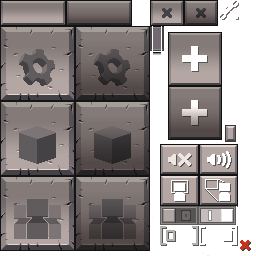
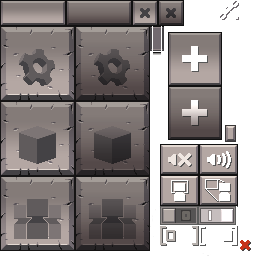
implement dynamic font text height calculation and update world selection menu UI

Changed region(s): [[0.5, 0.0, 0.875, 0.125]]

diff --git a/src/client/gui/screens/screen_worlds.cpp b/src/client/gui/screens/screen_worlds.cpp
@@ -148,7 +148,8 @@ void WorldsScreen::renderContent(MenuState& s) {
                 Texture* img = iconDist <= 1 ? worldIcon(worlds.names[i]) : 0;
                 if (!img) img = &defaultWorld;
                 textureBind(img);
-                float imgW = 64.0f * listScale, imgH = 48.0f * listScale;
+
+                float imgW = 64.0f * listScale, imgH = 45.0f * listScale;
                 float imgX = xCenterV - imgW / 2.0f;
                 float imgY = rowY - 8.0f * listScale;
 
@@ -170,17 +171,29 @@ void WorldsScreen::renderContent(MenuState& s) {
 
                 const float rowTextMaxW = (120.0f - 10.0f) * listScale * UI_SCALE / listText;
 
+                const float TEXT_Y0    = 139.0f;
+                const float SHADOW     = 2.0f;
+                const float GAP_NAME   = 3.0f;
+                const float GAP_DATE   = 2.0f;
+                const float GAP_FOLDER = 2.0f;
+
+                #define LINE_BOTTOM(y, str) ((y) + fontTextInkRows(&font, (str)) * listText + SHADOW)
                 const char* t0 = worlds.displayNames[i];
-                fontDrawTextClipped(&font, xText * UI_SCALE, (rowY + 44.0f * listScale) * UI_SCALE, t0, colTitle, listText, rowTextMaxW);
-
                 const char* t1 = worlds.dates[i];
-                fontDrawTextClipped(&font, xText * UI_SCALE, (rowY + 54.0f * listScale) * UI_SCALE, t1, colGrey, listText, rowTextMaxW);
-
                 const char* t2 = worlds.names[i];
-                fontDrawTextClipped(&font, xText * UI_SCALE, (rowY + 64.0f * listScale) * UI_SCALE, t2, colGrey, listText, rowTextMaxW);
-
                 const char* t3 = worlds.gameModes[i] == 1 ? "Creative" : "Survival";
-                fontDrawTextShadow(&font, xText * UI_SCALE, (rowY + 74.0f * listScale) * UI_SCALE, t3, colGrey, listText);
+                const float TEXT_Y1 = LINE_BOTTOM(TEXT_Y0, t0) + GAP_NAME;
+                const float TEXT_Y2 = LINE_BOTTOM(TEXT_Y1, t1) + GAP_DATE;
+                const float TEXT_Y3 = LINE_BOTTOM(TEXT_Y2, t2) + GAP_FOLDER;
+                #undef LINE_BOTTOM
+
+                fontDrawTextClipped(&font, xText * UI_SCALE, TEXT_Y0, t0, colTitle, listText, rowTextMaxW);
+
+                fontDrawTextClipped(&font, xText * UI_SCALE, TEXT_Y1, t1, colGrey, listText, rowTextMaxW);
+
+                fontDrawTextClipped(&font, xText * UI_SCALE, TEXT_Y2, t2, colGrey, listText, rowTextMaxW);
+
+                fontDrawTextShadow(&font, xText * UI_SCALE, TEXT_Y3, t3, colGrey, listText);
             } else {
 
                 textureBind(&touchGui);
@@ -197,7 +210,7 @@ void WorldsScreen::renderContent(MenuState& s) {
                 float cnw = fontTextWidth(&font, cn) * listText;
 
                 fontDrawTextShadow(&font, xCenterV * UI_SCALE - cnw / 2.0f,
-                                   iconY + iconPx + 2.0f, cn, colTitle, listText);
+                                   iconY + iconPx + 4.0f, cn, colTitle, listText);
             }
         }
 
@@ -205,17 +218,19 @@ void WorldsScreen::renderContent(MenuState& s) {
             bool delHovered = (uiRow == 2);
             textureBind(&touchGui);
 
-            const float TRASH_ZOOM = 2.0f;
-            const float trashPxW = 34.0f * TRASH_ZOOM;
-            const float trashPxH = 26.0f * TRASH_ZOOM;
-            const float trashPxX = floorf((VW * UI_SCALE - trashPxW) / 2.0f);
+            const float X_CELL = 26.0f;
+            const float X_ZOOM = 2.0f;
+            const float btnPx  = X_CELL * X_ZOOM;
+            const float btnX   = floorf((VW * UI_SCALE - btnPx) / 2.0f);
 
-            const float trashPxY = VH * UI_SCALE - trashPxH;
+            const float btnY   = VH * UI_SCALE - btnPx - 2.0f;
 
-            float trashU = delHovered ? 184.0f : 150.0f;
+            const float INSET  = delHovered ? 2.0f : 0.0f;
 
-            spriteDraw(&touchGui, trashPxX, trashPxY, trashPxW, trashPxH,
-                       trashU, 0.0f, 34.0f, 26.0f, WHITE);
+            textureBind(&touchGui);
+            spriteDraw(&touchGui, btnX + INSET, btnY + INSET,
+                       btnPx - INSET * 2.0f, btnPx - INSET * 2.0f,
+                       delHovered ? 158.0f : 132.0f, 0.0f, X_CELL, X_CELL, WHITE);
         }
 
         {

diff --git a/src/gpu/font.cpp b/src/gpu/font.cpp
@@ -43,8 +43,28 @@ bool fontLoad(const char* path, Font* out) {
         if (i == ' ')
             x = 4 - 2;
         out->charWidth[i] = (unsigned char)(x + 2);
+
+        int b = CELL - 1;
+        for (; b >= 0; b--) {
+            bool emptyRow = true;
+            for (int q = 0; q < CELL && emptyRow; q++) {
+                unsigned char a = px[((size_t)(cellY + b) * stride + (cellX + q)) * 4 + 3];
+                if (a > 0) emptyRow = false;
+            }
+            if (!emptyRow) break;
+        }
+        out->charBottom[i] = (unsigned char)(b + 1);
     }
     return true;
+}
+
+int fontTextInkRows(const Font* f, const char* text) {
+    int rows = 0;
+    for (const unsigned char* p = (const unsigned char*)text; *p; p++) {
+        const int b = f->charBottom[*p];
+        if (b > rows) rows = b;
+    }
+    return rows;
 }
 
 void fontFree(Font* f) {

diff --git a/src/client/gui/screens/menu_common.cpp b/src/client/gui/screens/menu_common.cpp
@@ -45,11 +45,13 @@ void uiDraw(MenuState& s, float x, float y, float w, float h,
 
 void guiOptionSwitch(MenuState& s, float x, float y, float w, float h,
                      bool on, bool hovered, unsigned int tint) {
-    float scale = hovered ? 0.95f : 1.0f;
-    float drawW = w * scale, drawH = h * scale;
-    float drawX = x + (w - drawW) / 2.0f, drawY = y + (h - drawH) / 2.0f;
+
+    (void)hovered;
+    const float dw = 38.0f, dh = 20.0f;
+    const float px = floorf(x * UI_SCALE + (w * UI_SCALE - dw) / 2.0f);
+    const float py = floorf(y * UI_SCALE + (h * UI_SCALE - dh) / 2.0f);
     float onOff = on ? 38.0f : 0.0f;
-    uiDraw(s, drawX * UI_SCALE, drawY * UI_SCALE, drawW * UI_SCALE, drawH * UI_SCALE,
+    uiDraw(s, px, py, dw, dh,
            160.0f + onOff, 206.0f, GA_SS_TOGGLE_X + onOff, GA_SS_TOGGLE_Y, 38.0f, 20.0f, tint);
 }
 

diff --git a/src/gpu/font.h b/src/gpu/font.h
@@ -7,8 +7,12 @@
 struct Font {
     Texture tex;
     unsigned char charWidth[256];
+
+    unsigned char charBottom[256];
     int lineHeight;
 };
+
+int fontTextInkRows(const Font* f, const char* text);
 
 bool fontLoad(const char* path, Font* out);
 

diff --git a/README.md b/README.md
@@ -148,6 +148,10 @@ model; that is worth more than a warning nobody reads.
   which dropped the tag already under a key instead of freeing it.
 - [**CYEVV**](https://github.com/CYEVV) — helped fix in-game buttons that were
   not rendering with the 4444 texture format.
+- [**Stann**](https://www.youtube.com/channel/UCT_snDyWXMIDKiCPs606mzg) — drew
+  the delete-world **X** button (both states, in `touchgui.png`), and spotted the
+  uneven border widths on the world-type pills that turned out to be a fractional
+  nine-patch corner.
 
 ### PSP engines this port learned from
 
